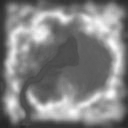
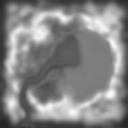
MAke cenario

diff --git a/projB/MyScene.js b/projB/MyScene.js
@@ -31,23 +31,24 @@ class MyScene extends CGFscene {
         // Initialize scene objects
         this.axis = new CGFaxis(this);
         this.plane = new Plane(this, 32);
+
         this.brick = new CGFappearance(this);
-        this.brick.setAmbient(0.1, 0.1, 0.1, 1);
+        this.brick.setAmbient(0.9, 0.9, 0.9, 1);
         this.brick.setDiffuse(0.9, 0.9, 0.9, 1);
-        this.brick.setSpecular(0.1, 0.1, 0.1, 1);
-        this.brick.setShininess(10.0);
+        this.brick.setSpecular(0.4, 0.4, 0.4, 1);
+        this.brick.setShininess(120.0);
         this.brick.loadTexture('images/brick.jpg');
         this.brick.setTextureWrap('REPEAT', 'REPEAT');
 
         this.garage = new CGFappearance(this);
-        this.garage.setAmbient(0.1, 0.1, 0.1, 1);
+        this.garage.setAmbient(0.9, 0.9, 0.9, 1);
         this.garage.setDiffuse(0.3, 0.3, 0.3, 1);
         this.garage.setSpecular(0.9, 0.9, 0.9, 1);
         this.garage.setShininess(10.0);
         this.garage.loadTexture('images/garage.jpg');
 
         this.door = new CGFappearance(this);
-        this.door.setAmbient(0.1, 0.1, 0.1, 1);
+        this.door.setAmbient(0.9, 0.9, 0.9, 1);
         this.door.setDiffuse(0.9, 0.9, 0.9, 1);
         this.door.setSpecular(0.1, 0.1, 0.1, 1);
         this.door.setShininess(10.0);
@@ -94,17 +95,17 @@ class MyScene extends CGFscene {
 
         // Objects connected to MyInterface
         this.tiles = new CGFappearance(this);
-        this.tiles.setAmbient(0.1, 0.1, 0.1, 1);
+        this.tiles.setAmbient(0.9, 0.9, 0.9, 1);
         this.tiles.setDiffuse(0.9, 0.9, 0.9, 1);
-        this.tiles.setSpecular(0.1, 0.1, 0.1, 1);
-        this.tiles.setShininess(10.0);
+        this.tiles.setSpecular(0.9, 0.9, 0.9, 1);
+        this.tiles.setShininess(120.0);
         this.tiles.loadTexture('images/tiles.jpg');
 
         // Objects connected to MyInterface
         //
         //
         this.bird = new MyBird(this);
-        this.forest = new MyForest(this, 2, 2);
+        this.forest = new MyForest(this, 5, 3);
         this.nest = new MyNest(this);
         this.house = new MyHouse(this, this.brick, this.door, this.tiles);
         this.branch = new MyTreeBranch(this);
@@ -176,6 +177,55 @@ class MyScene extends CGFscene {
         }
     }
 
+    cenario(){
+      this.pushMatrix();
+      this.scale(0.2, 0.2, 0.2);
+      this.bird.display();
+      this.popMatrix();
+
+      this.branches.forEach(value => {
+          this.branch.display(value);
+      });
+      this.setActiveShader(this.terrainShader);
+
+      this.terrainTex.bind(0);
+      this.gl.texParameteri(this.gl.TEXTURE_2D, this.gl.TEXTURE_WRAP_S, this.gl.REPEAT);
+      this.gl.texParameteri(this.gl.TEXTURE_2D, this.gl.TEXTURE_WRAP_T, this.gl.REPEAT);
+      this.terrainMap.bind(1);
+      this.terrainAlt.bind(2);
+
+      // ---- BEGIN Primitive drawing section
+      this.pushMatrix();
+      this.rotate(-0.5 * Math.PI, 1, 0, 0);
+      this.scale(60, 60, 1);
+      this.plane.display();
+      this.popMatrix();
+      this.setDefaultAppearance();
+
+      this.setActiveShader(this.defaultShader);
+
+      this.pushMatrix();
+      this.scale(0.8,0.8,0.8);
+      this.translate(18,0,-4);
+      this.rotate(Math.PI/2 + 0.3 , 0,1,0);
+      this.forest.display();
+      this.popMatrix();
+
+      this.pushMatrix();
+      this.scale(0.7,0.7,0.7);
+      this.translate(25,0,0);
+      this.rotate(-Math.PI/2 , 0,1,0);
+      this.house.display();
+      this.popMatrix();
+
+      this.pushMatrix();
+      this.translate(-9,-3,11);
+      this.scale(1.2,1.2,1.2);
+      this.rotate(-Math.PI/2 , 1,0,0);
+      this.nest.display();
+      this.popMatrix();
+    }
+
     display () {
         // ---- BEGIN Background, camera and axis setup
         // Clear image and depth buffer everytime we update the scene
@@ -198,35 +248,8 @@ class MyScene extends CGFscene {
 
         // this.appearance.apply();
 
-        this.bird.display();
-        this.branches.forEach(value => {
-            //this.branch.display(value);
-        });
-        this.setActiveShader(this.terrainShader);
+        this.cenario(); // desenha cenario
 
-        this.terrainTex.bind(0);
-        this.gl.texParameteri(this.gl.TEXTURE_2D, this.gl.TEXTURE_WRAP_S, this.gl.REPEAT);
-        this.gl.texParameteri(this.gl.TEXTURE_2D, this.gl.TEXTURE_WRAP_T, this.gl.REPEAT);
-        this.terrainMap.bind(1);
-        this.terrainAlt.bind(2);
-
-        // this.appearance.apply();
-
-        // this.terrainMap.apply();
-
-        // Apply default appearance
-
-        // ---- BEGIN Primitive drawing section
-        this.pushMatrix();
-        this.rotate(-0.5 * Math.PI, 1, 0, 0);
-        this.scale(60, 60, 1);
-        this.plane.display();
-        this.popMatrix();
-        this.setDefaultAppearance();
-        this.setActiveShader(this.defaultShader);
-
-        //this.forest.display();
-        //this.nest.display();
         this.displayLightnings();
         // this.house.display();
         // ---- END Primitive drawing section

diff --git a/projB/MyBird.js b/projB/MyBird.js
@@ -8,8 +8,16 @@ class MyBird extends CGFobject {
         this.eye = new MyBirdEye(scene);
         this.nose = new MyBirdNose(scene);
         this.branch = new MyTreeBranch(scene);
+
         this.angle = 0;
+
+
         this.speed = 0;
+        this.alpha = 0;
+
+        this.time = 0;
+
+
         this.ori = 0;
         this.z = 0;
         this.x = 0;
@@ -54,7 +62,8 @@ class MyBird extends CGFobject {
         this.scene.popMatrix();
     }
     update (time) {
-        this.angle = Math.sin((2 * time - time / (this.speed + 1)) * 0.005 * this.scene.speedFactor * (this.speed + 1)) * 0.7 - 0.7;
+        this.time = 0;
+        this.angle = Math.sin(2 * time * 0.005 * this.scene.speedFactor * (this.speed + 1) + this.alpha) * 0.7 - 0.7;
         this.birdHeight = Math.sin(time / (Math.PI * 2) / 30) * 0.7;
         this.x += this.speed * Math.sin(this.ori);
         this.z += this.speed * Math.cos(this.ori);
@@ -70,7 +79,11 @@ class MyBird extends CGFobject {
         }
     }
     increaseSpeed () {
+
+        var curr = (this.time * 0.005 * this.scene.speedFactor * (this.speed + 1) + this.alpha) % (2.0 * Math.PI);
         this.speed += 0.05 * this.scene.speedFactor;
+        var next = (this.time * 0.005 * this.scene.speedFactor * (this.speed + 1)) % (2.0 * Math.PI);
+        this.alpha = curr-next;
     }
     decreaseSpeed () {
         if (this.speed - 0.05 >= 0) { this.speed -= 0.05 * this.scene.speedFactor; } else { this.speed = 0; }

diff --git a/projB/MyTree.js b/projB/MyTree.js
@@ -5,18 +5,16 @@ class MyTree extends MyLSystem {
 				this.productions = {
 						"F" : "FF",
 						"X": [
-						 "F[-X][X]^^F[-X]+&X" ,
-						 "F[-X][^X]+X",
-		         "F[+X]-X",
-		         "F[/X][&X]F[\\X]+X",
-		         "F[\X][X]/X",
-		         "F[/X]\X",
-		         "F[^X][X]&&F[&X]^X",
-		         "F[^X]&X",
-		         "F[&X]^X"],
+						 "[/X]F[-X]+F[+X]-X",
+						 "[-X]&F[X][+F]+X",
+						 "[+/X]&[&X]F[\X]&X",
+						 "[^X]F&[/X]^F-[^X]X",
+						 "[&-X]/F[&X]+X",
+						 "[^\X]F[X]^F[++X]^X"
+					 ],
 				}
 				this.angle = 30.0  * Math.PI / 180.0;
-        this.iterations = 5;
+        this.iterations = 3;
         this.scale = Math.pow(0.8, this.iterations-1)
 				this.grammar = {
 					F : new MyBranch(this.scene),
